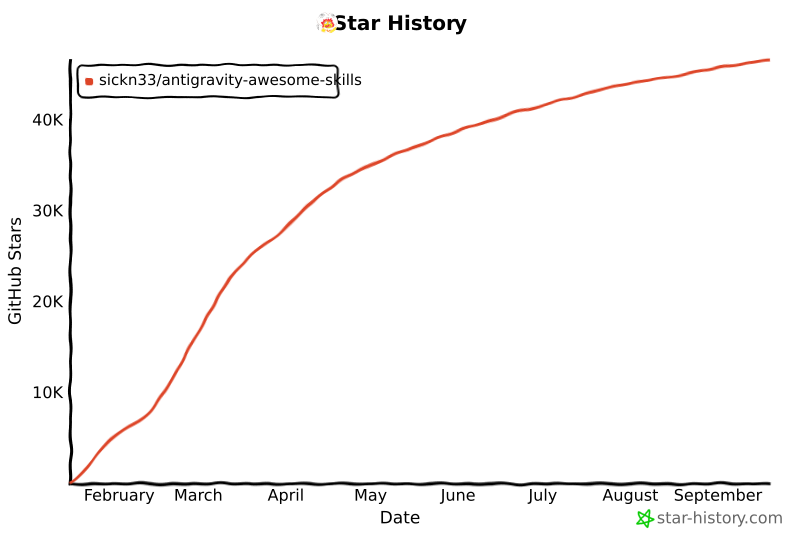
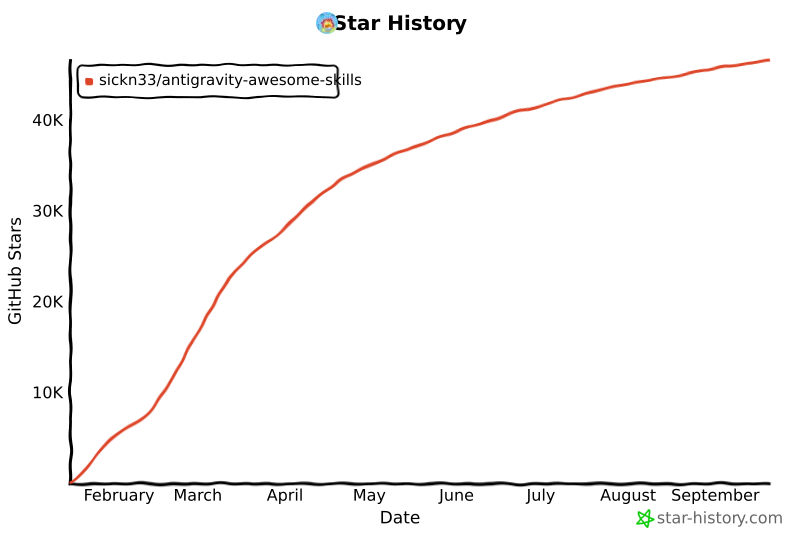
chore: update star history chart

diff --git a/README.md b/README.md
@@ -505,14 +505,14 @@ We officially thank the following contributors for their help in making this rep
 ## Star History
 
 <a href="https://www.star-history.com/#sickn33/antigravity-awesome-skills&type=date&legend=top-left">
- <img alt="Star History Chart" src="https://api.star-history.com/svg?repos=sickn33/antigravity-awesome-skills&type=date&legend=top-left&cache_bust=202609201055" />
+ <img alt="Star History Chart" src="https://api.star-history.com/svg?repos=sickn33/antigravity-awesome-skills&type=date&legend=top-left&cache_bust=202609211221" />
 </a>
 
 <a href="https://www.star-history.com/sickn33/antigravity-awesome-skills">
  <picture>
-   <source media="(prefers-color-scheme: dark)" srcset="https://api.star-history.com/chart?repos=sickn33/antigravity-awesome-skills&style=landscape1&theme=dark&cache_bust=202609201055" />
-   <source media="(prefers-color-scheme: light)" srcset="https://api.star-history.com/chart?repos=sickn33/antigravity-awesome-skills&style=landscape1&cache_bust=202609201055" />
-   <img alt="Star History Chart" src="https://api.star-history.com/chart?repos=sickn33/antigravity-awesome-skills&style=landscape1&cache_bust=202609201055" />
+   <source media="(prefers-color-scheme: dark)" srcset="https://api.star-history.com/chart?repos=sickn33/antigravity-awesome-skills&style=landscape1&theme=dark&cache_bust=202609211221" />
+   <source media="(prefers-color-scheme: light)" srcset="https://api.star-history.com/chart?repos=sickn33/antigravity-awesome-skills&style=landscape1&cache_bust=202609211221" />
+   <img alt="Star History Chart" src="https://api.star-history.com/chart?repos=sickn33/antigravity-awesome-skills&style=landscape1&cache_bust=202609211221" />
  </picture>
 </a>
 
